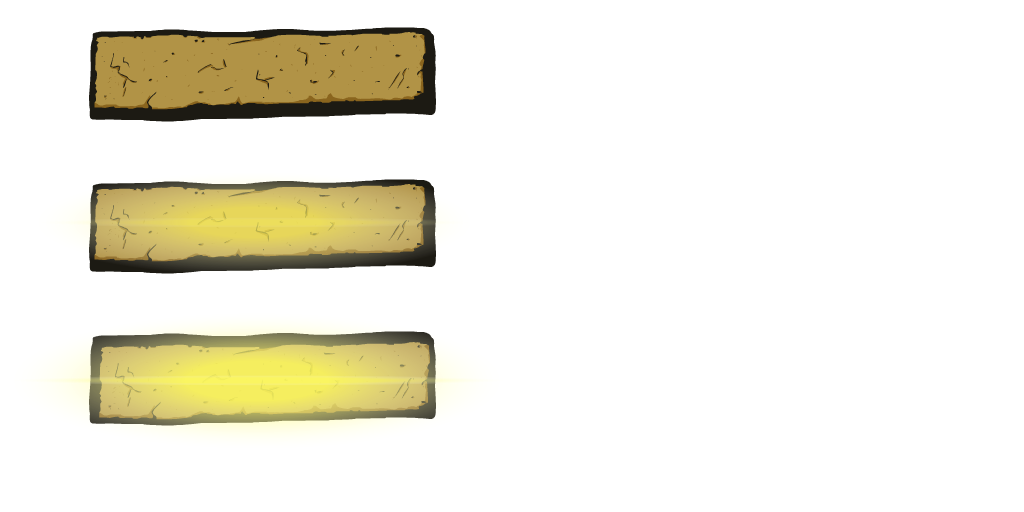
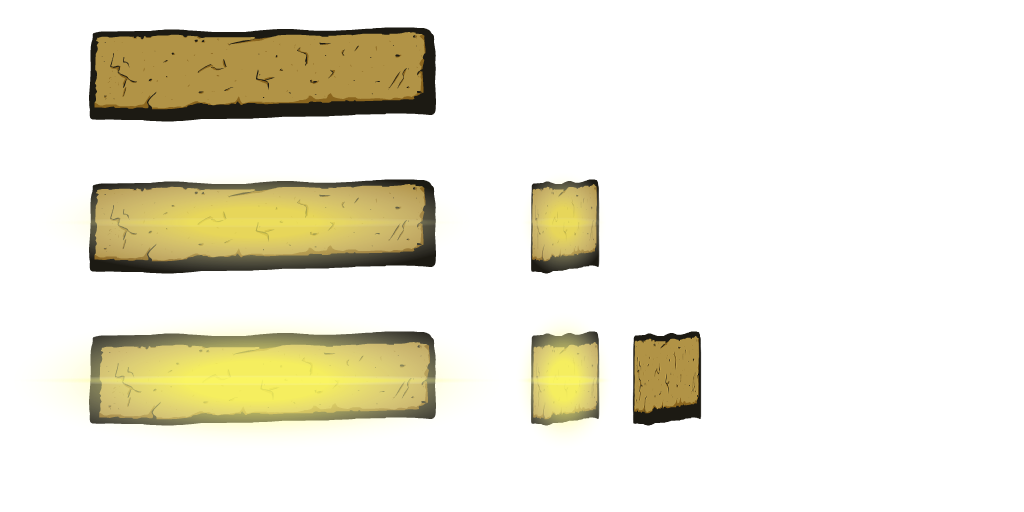
Reorganize assets *Deletes some resources that are not needed, they are contained and configured  by uiskin.png, uiskin.atlas, uiskin.json now in a more organized and logic way. *Creates graphics for level buttons.

Changed region(s): [[0.5, 0.625, 0.6875, 0.8438], [0.5, 0.3438, 0.5938, 0.5312]]

diff --git a/core/src/sokobug/screens/MainMenuScreen.java b/core/src/sokobug/screens/MainMenuScreen.java
@@ -34,8 +34,7 @@ public class MainMenuScreen implements Screen, InputProcessor {
 	public Boolean isOptionFocused;
 	public Boolean isCreditsFocused;
 	public Boolean isExitFocused;
-	public Skin focusedButtonSkin;
-	public Skin normalButtonSkin;
+	public Skin uiSkin;
 
 	public MainMenuScreen(Sokobug game) {
 		this.game = game;
@@ -47,8 +46,6 @@ public class MainMenuScreen implements Screen, InputProcessor {
 		game.assetManager.load("skins/uiskin.atlas", TextureAtlas.class);
 		game.assetManager.load("skins/uiskin.json", Skin.class,
 				new SkinLoader.SkinParameter("skins/uiskin.atlas"));
-		game.assetManager.load("skins/focusedButton.json", Skin.class,
-				new SkinLoader.SkinParameter("skins/focusedButton.atlas"));
 		game.assetManager.finishLoading();
 
 		background = new Sprite(game.assetManager.get("MainMenuScreen.png",
@@ -62,9 +59,7 @@ public class MainMenuScreen implements Screen, InputProcessor {
 		exit = new MenuButton(this, "Exit", MenuButton.EXIT,
 				game.assetManager.get("skins/uiskin.json", Skin.class));
 
-		focusedButtonSkin = game.assetManager.get("skins/focusedButton.json",
-				Skin.class);
-		normalButtonSkin = game.assetManager.get("skins/uiskin.json",
+		uiSkin = game.assetManager.get("skins/uiskin.json",
 				Skin.class);
 
 		table.add(play).row();
@@ -125,10 +120,10 @@ public class MainMenuScreen implements Screen, InputProcessor {
 		// is set to none.
 		defocusButtons();
 
-		play.setStyle(normalButtonSkin.get(TextButtonStyle.class));
-		options.setStyle(normalButtonSkin.get(TextButtonStyle.class));
-		credits.setStyle(normalButtonSkin.get(TextButtonStyle.class));
-		exit.setStyle(normalButtonSkin.get(TextButtonStyle.class));
+		play.setStyle(uiSkin.get("default", TextButtonStyle.class));
+		options.setStyle(uiSkin.get("default", TextButtonStyle.class));
+		credits.setStyle(uiSkin.get("default", TextButtonStyle.class));
+		exit.setStyle(uiSkin.get("default", TextButtonStyle.class));
 
 		multiplexer.addProcessor(stage);
 		multiplexer.addProcessor(this);
@@ -156,7 +151,6 @@ public class MainMenuScreen implements Screen, InputProcessor {
 		game.assetManager.unload("MainMenuScreen.png");
 		game.assetManager.unload("skins/uiskin.atlas");
 		game.assetManager.unload("skins/uiskin.json");
-		game.assetManager.unload("skins/focusedButton.json");
 	}
 
 	@Override
@@ -168,30 +162,35 @@ public class MainMenuScreen implements Screen, InputProcessor {
 				if (isPlayFocused) {
 					isPlayFocused = false;
 					isOptionFocused = true;
-					play.setStyle(normalButtonSkin.get(TextButtonStyle.class));
-					options.setStyle(focusedButtonSkin
-							.get(TextButtonStyle.class));
+					play.setStyle(uiSkin.get("default",
+							TextButtonStyle.class));
+					options.setStyle(uiSkin.get("btn_focused",
+							TextButtonStyle.class));
 				} else if (isOptionFocused) {
 					isOptionFocused = false;
 					isCreditsFocused = true;
-					options.setStyle(normalButtonSkin
-							.get(TextButtonStyle.class));
-					credits.setStyle(focusedButtonSkin
-							.get(TextButtonStyle.class));
+					options.setStyle(uiSkin.get("default",
+							TextButtonStyle.class));
+					credits.setStyle(uiSkin.get("btn_focused",
+							TextButtonStyle.class));
 				} else if (isCreditsFocused) {
 					isCreditsFocused = false;
 					isExitFocused = true;
-					credits.setStyle(normalButtonSkin
-							.get(TextButtonStyle.class));
-					exit.setStyle(focusedButtonSkin.get(TextButtonStyle.class));
+					credits.setStyle(uiSkin.get("default",
+							TextButtonStyle.class));
+					exit.setStyle(uiSkin.get("btn_focused",
+							TextButtonStyle.class));
 				} else if (isExitFocused) {
 					isExitFocused = false;
 					isPlayFocused = true;
-					exit.setStyle(normalButtonSkin.get(TextButtonStyle.class));
-					play.setStyle(focusedButtonSkin.get(TextButtonStyle.class));
+					exit.setStyle(uiSkin.get("default",
+							TextButtonStyle.class));
+					play.setStyle(uiSkin.get("btn_focused",
+							TextButtonStyle.class));
 				} else {
 					isPlayFocused = true;
-					play.setStyle(focusedButtonSkin.get(TextButtonStyle.class));
+					play.setStyle(uiSkin.get("btn_focused",
+							TextButtonStyle.class));
 				}
 				return true;
 
@@ -199,30 +198,35 @@ public class MainMenuScreen implements Screen, InputProcessor {
 				if (isPlayFocused) {
 					isPlayFocused = false;
 					isExitFocused = true;
-					play.setStyle(normalButtonSkin.get(TextButtonStyle.class));
-					exit.setStyle(focusedButtonSkin.get(TextButtonStyle.class));
+					play.setStyle(uiSkin.get("default",
+							TextButtonStyle.class));
+					exit.setStyle(uiSkin.get("btn_focused",
+							TextButtonStyle.class));
 				} else if (isExitFocused) {
 					isExitFocused = false;
 					isCreditsFocused = true;
-					exit.setStyle(normalButtonSkin.get(TextButtonStyle.class));
-					credits.setStyle(focusedButtonSkin
-							.get(TextButtonStyle.class));
+					exit.setStyle(uiSkin.get("default",
+							TextButtonStyle.class));
+					credits.setStyle(uiSkin.get("btn_focused",
+							TextButtonStyle.class));
 				} else if (isCreditsFocused) {
 					isCreditsFocused = false;
 					isOptionFocused = true;
-					credits.setStyle(normalButtonSkin
-							.get(TextButtonStyle.class));
-					options.setStyle(focusedButtonSkin
-							.get(TextButtonStyle.class));
+					credits.setStyle(uiSkin.get("default",
+							TextButtonStyle.class));
+					options.setStyle(uiSkin.get("btn_focused",
+							TextButtonStyle.class));
 				} else if (isOptionFocused) {
 					isOptionFocused = false;
 					isPlayFocused = true;
-					options.setStyle(normalButtonSkin
-							.get(TextButtonStyle.class));
-					play.setStyle(focusedButtonSkin.get(TextButtonStyle.class));
+					options.setStyle(uiSkin.get("default",
+							TextButtonStyle.class));
+					play.setStyle(uiSkin.get("btn_focused",
+							TextButtonStyle.class));
 				} else {
 					isExitFocused = true;
-					exit.setStyle(focusedButtonSkin.get(TextButtonStyle.class));
+					exit.setStyle(uiSkin.get("btn_focused",
+							TextButtonStyle.class));
 				}
 				return true;
 

diff --git a/core/src/sokobug/domain/MenuButton.java b/core/src/sokobug/domain/MenuButton.java
@@ -45,7 +45,7 @@ public class MenuButton extends TextButton {
 				public void enter(InputEvent event, float x, float y,
 						int pointer, Actor fromActor) {
 					menu.getFocusedButton().setStyle(
-							menu.normalButtonSkin.get(TextButtonStyle.class));
+							menu.uiSkin.get(TextButtonStyle.class));
 					menu.defocusButtons();
 				}
 			});
@@ -60,7 +60,7 @@ public class MenuButton extends TextButton {
 				public void enter(InputEvent event, float x, float y,
 						int pointer, Actor fromActor) {
 					menu.getFocusedButton().setStyle(
-							menu.normalButtonSkin.get(TextButtonStyle.class));
+							menu.uiSkin.get(TextButtonStyle.class));
 					menu.defocusButtons();
 				}
 			});
@@ -75,7 +75,7 @@ public class MenuButton extends TextButton {
 				public void enter(InputEvent event, float x, float y,
 						int pointer, Actor fromActor) {
 					menu.getFocusedButton().setStyle(
-							menu.normalButtonSkin.get(TextButtonStyle.class));
+							menu.uiSkin.get(TextButtonStyle.class));
 					menu.defocusButtons();
 				}
 			});
@@ -90,7 +90,7 @@ public class MenuButton extends TextButton {
 				public void enter(InputEvent event, float x, float y,
 						int pointer, Actor fromActor) {
 					menu.getFocusedButton().setStyle(
-							menu.normalButtonSkin.get(TextButtonStyle.class));
+							menu.uiSkin.get(TextButtonStyle.class));
 					menu.defocusButtons();
 				}
 			});
